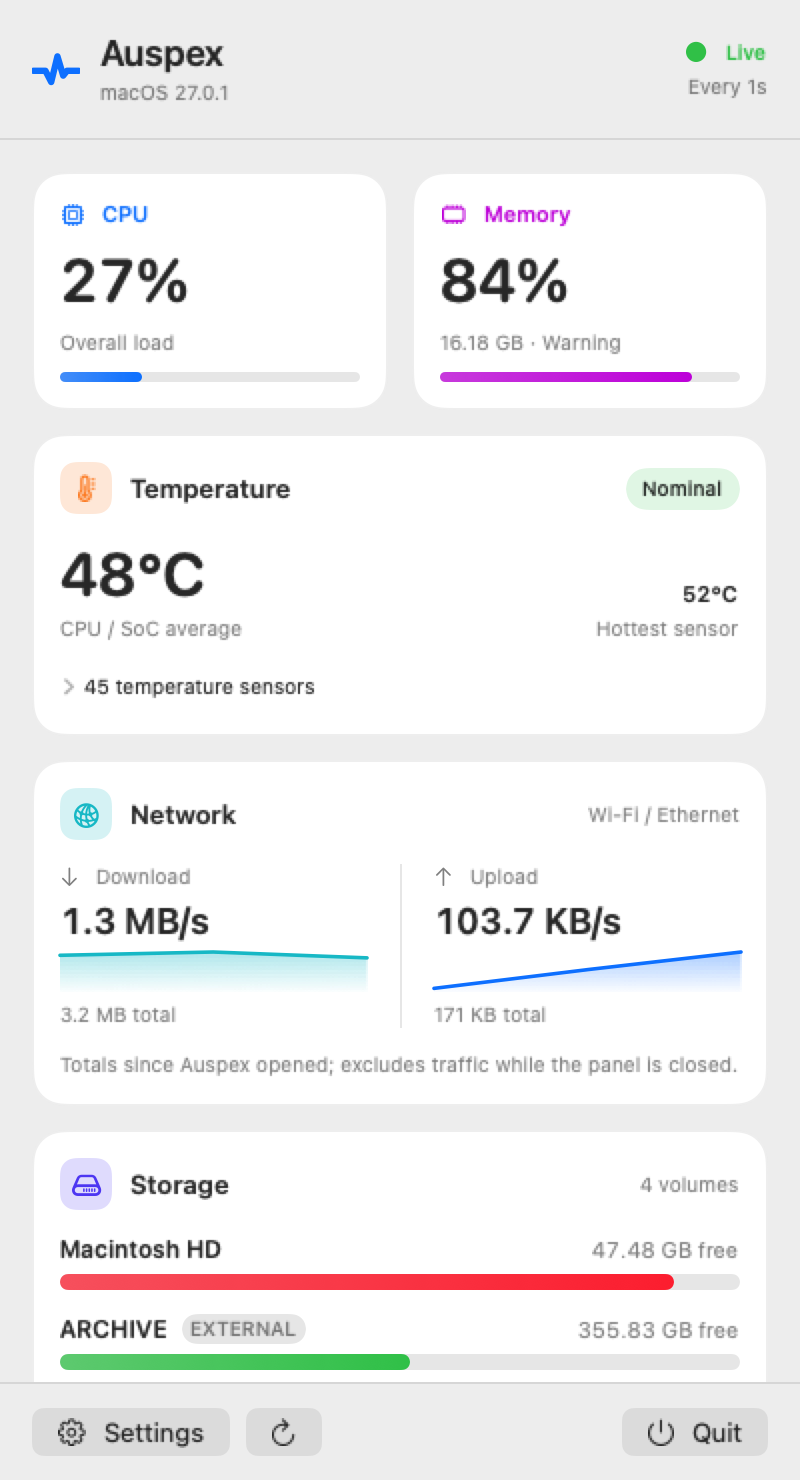
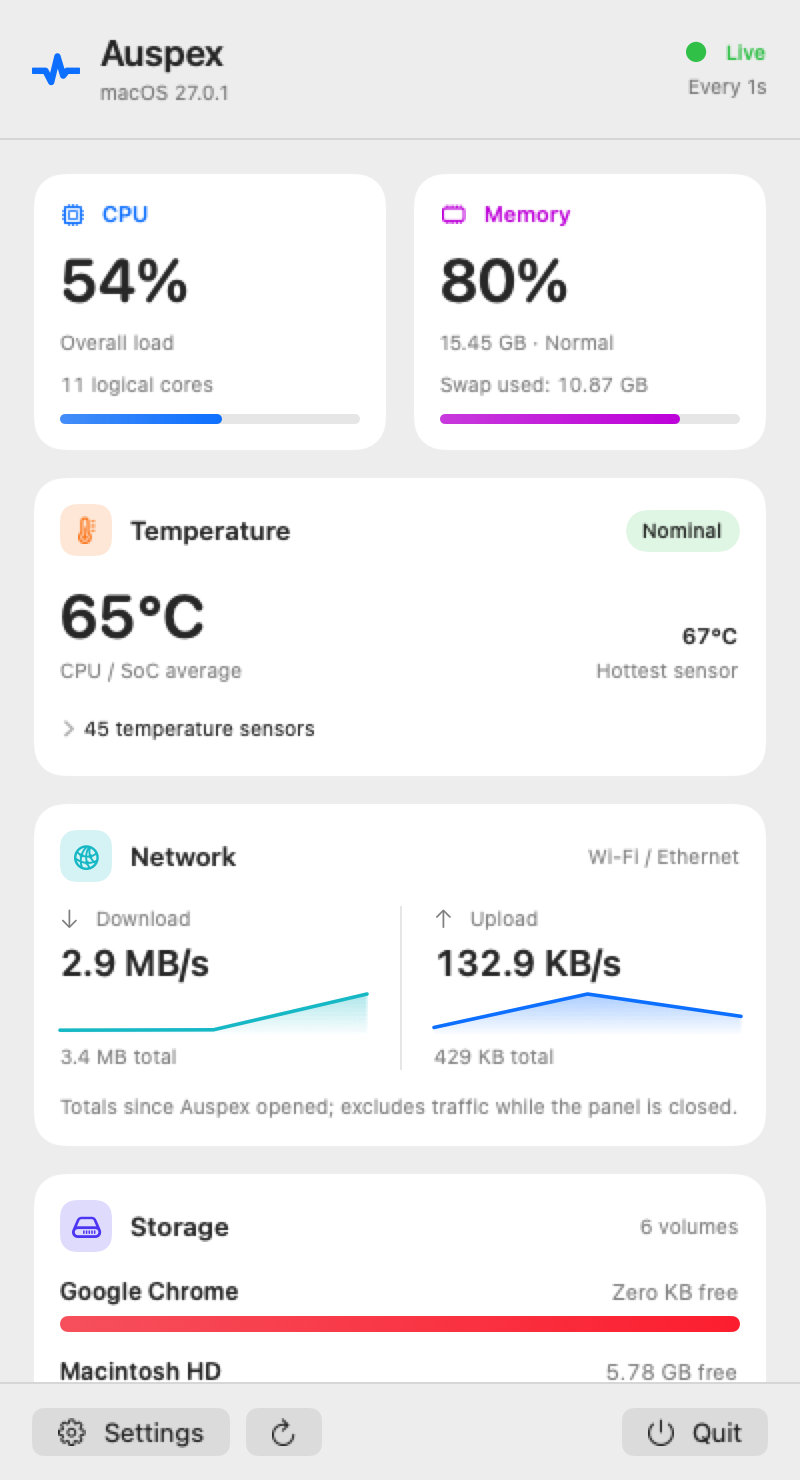
feat: show live swap usage alongside memory
Read disk-backed swap through vm.swapusage and display it in both
Memory views, independently of resident RAM accounting. Preserve
unavailable readings instead of displaying a misleading zero.

Verify live and unavailable swap queries and both panel appearances.
Update screenshots and prepare release 1.2.0 (build 4).

diff --git a/Sources/Views/PanelView.swift b/Sources/Views/PanelView.swift
@@ -93,27 +93,39 @@ struct PanelView: View {
     private var overview: some View {
         HStack(spacing: 12) {
             summary("CPU", symbol: "cpu", value: "\(monitor.cpu.totalPercent)%",
-                    detail: "Overall load", fraction: monitor.cpu.total, tint: Palette.cpu, ready: monitor.cpu.isReady)
+                    detail: "Overall load", fraction: monitor.cpu.total, tint: Palette.cpu, ready: monitor.cpu.isReady,
+                    footnote: "\(ProcessInfo.processInfo.processorCount) logical cores")
             summary("Memory", symbol: "memorychip", value: "\(monitor.memory.usedPercent)%",
                     detail: "\(Fmt.bytes(monitor.memory.used)) · \(monitor.memory.pressure.label)", fraction: monitor.memory.usedFraction,
-                    tint: Palette.memory, ready: monitor.memory.isReady)
+                    tint: Palette.memory, ready: monitor.memory.isReady,
+                    footnote: "Swap used: \(swapUsedText)")
+                .help("Swap is disk space macOS uses to hold memory data. It is separate from the RAM percentage.")
         }
     }
 
     private func summary(_ title: String, symbol: String, value: String,
-                         detail: String, fraction: Double, tint: Color, ready: Bool) -> some View {
+                         detail: String, fraction: Double, tint: Color, ready: Bool,
+                         footnote: String) -> some View {
         VStack(alignment: .leading, spacing: 8) {
             Label(title, systemImage: symbol).font(.subheadline.weight(.medium)).foregroundStyle(tint)
             Text(ready ? value : "—")
                 .font(.system(size: 30, weight: .semibold, design: .rounded)).monospacedDigit()
             Text(ready ? detail : "Reading…")
                 .font(.caption).foregroundStyle(.secondary).lineLimit(1)
+            Text(footnote).font(.caption).foregroundStyle(.secondary).monospacedDigit().lineLimit(1)
             CapacityBar(fraction: fraction, color: tint, height: 5)
                 .accessibilityHidden(true)
         }
         .frame(maxWidth: .infinity, alignment: .leading)
         .padding(14).glassCard()
         .accessibilityElement(children: .combine)
+    }
+
+    private var swapUsedText: String {
+        guard let used = monitor.memory.swapUsed else {
+            return monitor.lastUpdated == nil ? "Reading…" : "Unavailable"
+        }
+        return used == 0 ? "0 B" : Fmt.bytes(used)
     }
 
     private var cpuSection: some View {
@@ -140,6 +152,14 @@ struct PanelView: View {
                 miniStat("Wired", Fmt.bytes(memory.wired))
                 miniStat("Compressed", Fmt.bytes(memory.compressed))
             }
+            HStack {
+                Text("Swap used").foregroundStyle(.secondary)
+                Spacer()
+                Text(swapUsedText).monospacedDigit()
+            }
+            .font(.subheadline)
+            .accessibilityElement(children: .combine)
+            .help("Disk space currently used for swapped-out memory; not included in the RAM total above.")
             Text("\(Fmt.bytes(memory.used)) of \(Fmt.bytes(memory.total)) · resident memory estimate")
                 .font(.caption).foregroundStyle(.secondary)
         }

diff --git a/Tests/RegressionTests.swift b/Tests/RegressionTests.swift
@@ -1,4 +1,5 @@
 import Foundation
+import Darwin
 
 @main
 struct RegressionTests {
@@ -32,6 +33,22 @@ struct RegressionTests {
         expect(memory.used == memory.app + memory.wired + memory.compressed, "Memory components must add up to Memory Used")
         expect(memory.used <= memory.total, "Resident memory must not exceed physical memory")
         print("PASS: live memory accounting")
+
+        var swap = xsw_usage()
+        var swapSize = MemoryLayout<xsw_usage>.size
+        let swapResult = sysctlbyname("vm.swapusage", &swap, &swapSize, nil, 0)
+        if swapResult == 0 {
+            expect(memory.swapUsed != nil, "Successful swap queries must publish a reading, including zero")
+            if let used = memory.swapUsed {
+                expect(used <= swap.xsu_total, "Swap used must fit within allocated swap")
+            }
+        } else {
+            expect(memory.swapUsed == nil, "Unavailable swap must not be reported as zero usage")
+        }
+        if ProcessInfo.processInfo.arguments.contains("--require-swap") {
+            expect(memory.swapUsed != nil, "Live swap usage must be available on this Mac")
+        }
+        print("PASS: live swap usage (\(memory.swapUsed.map { "\($0) bytes" } ?? "unavailable")); resident accounting excludes swap")
 
         let cpu = CPUCollector()
         let baseline = cpu.collect()

diff --git a/Sources/Collectors/MemoryCollector.swift b/Sources/Collectors/MemoryCollector.swift
@@ -3,8 +3,8 @@
 //  Auspex
 //
 //  Reads live VM statistics via host_statistics64 and the current memory
-//  pressure level via sysctl. "Used" mirrors Activity Monitor's Memory Used
-//  (App + Wired + Compressed).
+//  pressure level and disk-backed swap via sysctl. Resident memory is an
+//  estimate (App + Wired + Compressed); swap is reported separately.
 //
 
 import Darwin
@@ -17,6 +17,7 @@ struct MemoryCollector {
         var snap = MemorySnapshot()
         snap.total = total
         snap.pressure = MemoryPressure(rawLevel: pressureLevel())
+        snap.swapUsed = swapUsedBytes()
 
         var stats = vm_statistics64_data_t()
         var count = mach_msg_type_number_t(
@@ -46,6 +47,14 @@ struct MemoryCollector {
         snap.used = snap.app + wired + compressed
         snap.isReady = true
         return snap
+    }
+
+    private func swapUsedBytes() -> UInt64? {
+        var usage = xsw_usage()
+        var size = MemoryLayout<xsw_usage>.size
+        guard sysctlbyname("vm.swapusage", &usage, &size, nil, 0) == 0,
+              size == MemoryLayout<xsw_usage>.size else { return nil }
+        return usage.xsu_used
     }
 
     /// `kern.memorystatus_vm_pressure_level`: 1 normal, 2 warn, 4 critical.

diff --git a/Sources/Model/Metrics.swift b/Sources/Model/Metrics.swift
@@ -31,6 +31,9 @@ struct MemorySnapshot: Equatable {
     var wired: UInt64 = 0
     var compressed: UInt64 = 0
     var app: UInt64 = 0           // anonymous resident pages minus purgeable
+    /// Disk-backed swap currently in use; nil when the kernel query fails.
+    /// This is separate from physical memory and is not included in `used`.
+    var swapUsed: UInt64? = nil
     var pressure: MemoryPressure = .normal
 
     var usedFraction: Double { total > 0 ? Double(used) / Double(total) : 0 }

diff --git a/README.md b/README.md
@@ -36,7 +36,7 @@ third-party dependencies), and collects readings on a background queue with boun
 ## Features
 
 - **CPU** — prominent overall load, expandable per-core bars, and a load sparkline.
-- **Memory** — used / wired / compressed, with live memory-pressure color (green → yellow → red).
+- **Memory** — app / wired / compressed RAM, live memory pressure, and disk-backed **Swap used** in both the overview tile and detailed breakdown. Swap is separate from the RAM percentage.
 - **Storage** — mounted volumes including external drives, with Finder-style available space where supported and a capacity fallback.
 - **Network** — Wi-Fi/Ethernet throughput from 64-bit counters, with trend sparklines and observed traffic totals. VPN and peer-to-peer interfaces are excluded to avoid counting packets twice.
 - **Battery** — charge, charging state, health %, and cycle count (laptops only).
@@ -176,13 +176,13 @@ See [CHANGELOG.md](CHANGELOG.md) for the version history.
 ```bash
 make verify
 # Run outside restrictive tool sandboxes to require real mounted volumes:
-Tools/verify.sh --require-volumes --require-temperatures
+Tools/verify.sh --require-volumes --require-temperatures --require-swap
 make local
 open build/Local/Auspex.app
 ```
 
 The regression harness checks memory accounting, 64-bit network counters, interface
-changes, counter resets, unique sensor identities, CPU/battery/storage bounds, and
+changes, counter resets, live swap usage and unavailable-query handling, unique sensor identities, CPU/battery/storage bounds, and
 monitor refresh bursts and sleep/wake transitions. It also renders the menu bar logo
 in light and dark appearances with loose PNGs and missing resources. It uses an isolated preferences
 suite. Storage and temperature APIs may return no data inside a development sandbox.

diff --git a/CHANGELOG.md b/CHANGELOG.md
@@ -7,6 +7,12 @@ and this project adheres to [Semantic Versioning](https://semver.org/spec/v2.0.0
 
 ## [Unreleased]
 
+## [1.2.0] - 2026-10-17
+
+### Added
+- Live disk-backed swap usage in the Memory overview tile and detailed Memory card, sampled with RAM readings using `vm.swapusage`.
+- Clear zero-usage and unavailable states. Swap stays separate from the RAM percentage and resident memory total.
+
 ## [1.1.1] - 2026-10-16
 
 ### Fixed
@@ -53,7 +59,8 @@ and this project adheres to [Semantic Versioning](https://semver.org/spec/v2.0.0
 - Frugal polling: fast updates while open, a slow idle tick to keep the menu bar current, and full pause when the inline stat is hidden.
 - All metrics read via built-in macOS APIs — zero third-party dependencies.
 
-[Unreleased]: https://github.com/breadoncee/Auspex/compare/v1.1.1...HEAD
+[Unreleased]: https://github.com/breadoncee/Auspex/compare/v1.2.0...HEAD
+[1.2.0]: https://github.com/breadoncee/Auspex/releases/tag/v1.2.0
 [1.1.1]: https://github.com/breadoncee/Auspex/releases/tag/v1.1.1
 [1.1.0]: https://github.com/breadoncee/Auspex/releases/tag/v1.1.0
 [1.0.0]: https://github.com/breadoncee/Auspex/releases/tag/v1.0
